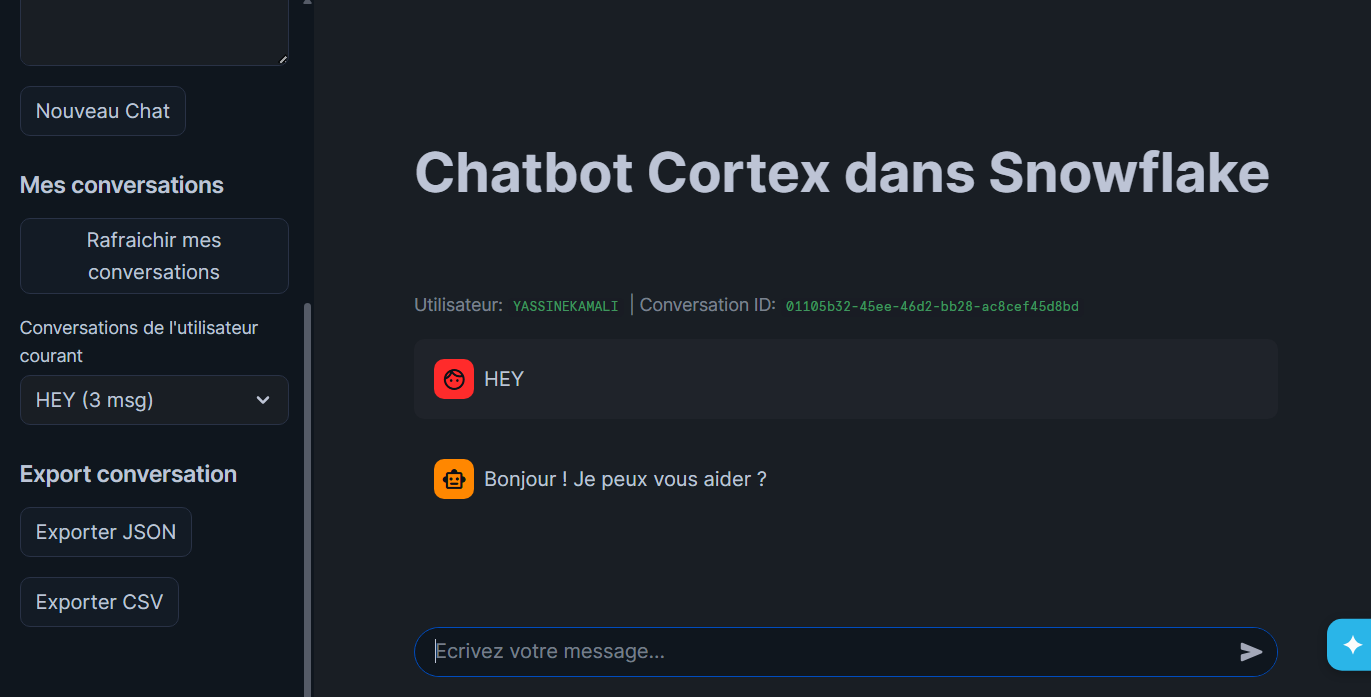
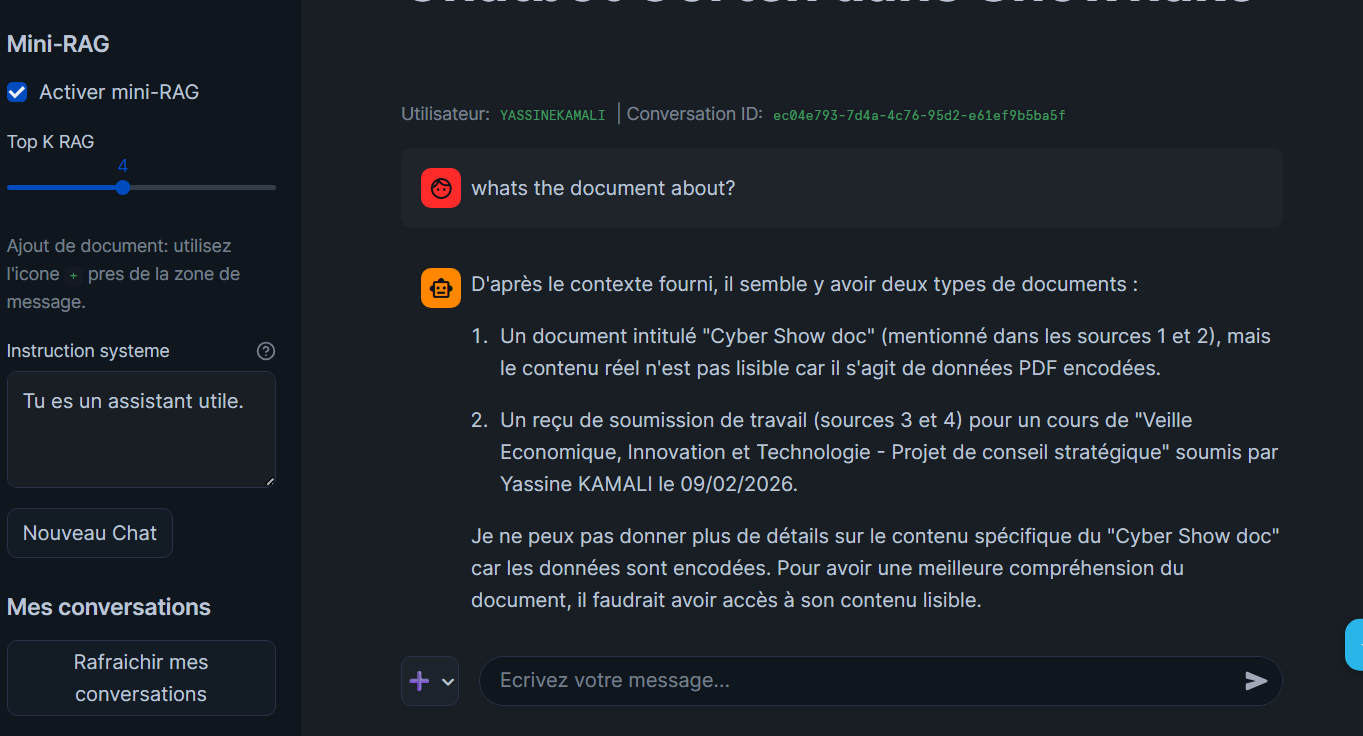
Update README.md and app.py for mini-RAG functionality and document handling

diff --git a/app.py b/app.py
@@ -1,12 +1,19 @@
 import json
 import csv
 import io
+import hashlib
 from datetime import datetime, timezone
+from pathlib import Path
 from typing import Any, Dict, List, Tuple
 from uuid import uuid4
 
 import streamlit as st
 from snowflake.snowpark.context import get_active_session
+
+try:
+    from pypdf import PdfReader
+except Exception:
+    PdfReader = None
 
 DEFAULT_SYSTEM_PROMPT = "Tu es un assistant utile."
 HISTORY_TABLE = "CHAT_MESSAGES"
@@ -118,6 +125,61 @@ def split_text_into_chunks(text: str, chunk_size: int = 900, overlap: int = 150)
     return chunks
 
 
+def extract_document_title_and_content(uploaded_file) -> Tuple[str, str, str]:
+    file_name = uploaded_file.name if uploaded_file is not None else "document"
+    title = Path(file_name).stem.replace("_", " ").strip() or "document"
+    raw = uploaded_file.getvalue() if uploaded_file is not None else b""
+    suffix = Path(file_name).suffix.lower()
+    warning = ""
+
+    text = ""
+    if suffix in {".txt", ".md", ".csv", ".json"}:
+        text = raw.decode("utf-8", errors="ignore")
+    elif suffix == ".pdf":
+        if PdfReader is None:
+            warning = "Lecture PDF limitee dans cet environnement. Preferer .txt/.md pour de meilleurs resultats."
+            text = raw.decode("utf-8", errors="ignore")
+        else:
+            try:
+                reader = PdfReader(io.BytesIO(raw))
+                text = "\n".join([(page.extract_text() or "") for page in reader.pages])
+            except Exception:
+                warning = "Extraction PDF partielle ou impossible. Preferer .txt/.md."
+                text = raw.decode("utf-8", errors="ignore")
+    else:
+        warning = "Format non optimal pour extraction texte. Preferer .txt/.md/.pdf."
+        text = raw.decode("utf-8", errors="ignore")
+
+    return title, text.strip(), warning
+
+
+def auto_index_uploaded_rag_file(session, user_name: str, uploaded_file) -> Tuple[bool, str]:
+    if uploaded_file is None:
+        return False, "Aucun fichier fourni."
+
+    raw = uploaded_file.getvalue()
+    file_sig = hashlib.sha256(raw).hexdigest()
+    if st.session_state.get("last_indexed_rag_file_sig") == file_sig:
+        return True, "Document deja indexe."
+
+    title, content, warning = extract_document_title_and_content(uploaded_file)
+    if not content:
+        return False, "Impossible d'extraire le contenu du document."
+
+    ok, msg = index_rag_document(
+        session=session,
+        user_name=user_name,
+        doc_name=title,
+        content=content,
+        source_type="file",
+    )
+    if ok:
+        st.session_state.last_indexed_rag_file_sig = file_sig
+        if warning:
+            msg = f"{msg} {warning}"
+    return ok, msg
+
+
 def index_rag_document(
     session,
     user_name: str,
@@ -152,7 +214,7 @@ def index_rag_document(
                     ?,
                     ?,
                     ?,
-                    SNOWFLAKE.CORTEX.AI_EMBED(?, ?),
+                    SNOWFLAKE.CORTEX.EMBED_TEXT_1024(?, ?),
                     CURRENT_TIMESTAMP()
                 """,
                 params=[str(uuid4()), doc_id, user_name, idx, chunk, RAG_EMBED_MODEL, chunk],
@@ -173,7 +235,7 @@ def retrieve_rag_chunks(
         rows = session.sql(
             f"""
             WITH q AS (
-                SELECT SNOWFLAKE.CORTEX.AI_EMBED(?, ?) AS qvec
+                SELECT SNOWFLAKE.CORTEX.EMBED_TEXT_1024(?, ?) AS qvec
             )
             SELECT
                 c.chunk_text,
@@ -225,9 +287,21 @@ def inject_rag_context(history: List[Dict[str, str]], rag_chunks: List[Dict[str,
     )
 
     if history and history[0]["role"] == "system":
-        return [history[0], {"role": "system", "content": rag_instruction}, *history[1:]]
+        merged_system = f"{history[0]['content']}\n\n{rag_instruction}"
+        return [{"role": "system", "content": merged_system}, *history[1:]]
 
     return [{"role": "system", "content": rag_instruction}, *history]
+
+
+def is_empty_model_answer(answer: str) -> bool:
+    normalized = " ".join(answer.strip().split())
+    if not normalized:
+        return True
+    if normalized in {"{}", "[]"}:
+        return True
+    if '"choices": [ {} ]' in normalized:
+        return True
+    return False
 
 
 def get_current_user(session) -> str:
@@ -489,6 +563,9 @@ def init_state() -> None:
     if "last_rag_sources" not in st.session_state:
         st.session_state.last_rag_sources = []
 
+    if "last_indexed_rag_file_sig" not in st.session_state:
+        st.session_state.last_indexed_rag_file_sig = ""
+
 
 def start_new_chat(session, system_prompt: str, user_name: str) -> None:
     st.session_state.conversation_id = str(uuid4())
@@ -559,32 +636,7 @@ with st.sidebar:
     st.markdown("### Mini-RAG")
     enable_rag = st.checkbox("Activer mini-RAG", value=False)
     rag_top_k = st.slider("Top K RAG", min_value=1, max_value=8, value=3, step=1)
-    rag_doc_name = st.text_input("Nom du document", value="")
-    rag_file = st.file_uploader("Importer un fichier texte", type=["txt", "md"])
-    rag_text = st.text_area("Ou coller un texte a indexer", value="", height=120)
-    if st.button("Indexer document RAG"):
-        if st.session_state.rag_warning:
-            st.error(st.session_state.rag_warning)
-        else:
-            doc_name = rag_doc_name.strip() or (rag_file.name if rag_file is not None else "document")
-            file_text = ""
-            if rag_file is not None:
-                try:
-                    file_text = rag_file.getvalue().decode("utf-8", errors="ignore")
-                except Exception:
-                    file_text = ""
-            content_to_index = file_text.strip() or rag_text.strip()
-            ok, msg = index_rag_document(
-                session=session,
-                user_name=st.session_state.current_user,
-                doc_name=doc_name,
-                content=content_to_index,
-                source_type="file" if rag_file is not None else "manual",
-            )
-            if ok:
-                st.success(msg)
-            else:
-                st.error(msg)
+    st.caption("Ajout de document: utilisez l'icone `+` pres de la zone de message.")
 
     prompt_input = st.text_area(
         "Instruction systeme",
@@ -690,7 +742,33 @@ for message in st.session_state.messages:
     with st.chat_message(message["role"]):
         st.markdown(message["content"])
 
-user_prompt = st.chat_input("Ecrivez votre message...")
+input_cols = st.columns([1, 12], vertical_alignment="bottom")
+with input_cols[0]:
+    with st.popover("➕"):
+        rag_inline_file = st.file_uploader(
+            "Ajouter un document (txt, md, pdf)",
+            type=["txt", "md", "pdf"],
+            key="rag_inline_file",
+        )
+        if rag_inline_file is not None:
+            if st.session_state.rag_warning:
+                st.error(st.session_state.rag_warning)
+            else:
+                ok, msg = auto_index_uploaded_rag_file(
+                    session=session,
+                    user_name=st.session_state.current_user,
+                    uploaded_file=rag_inline_file,
+                )
+                if ok:
+                    refresh_user_conversations(session)
+                    if msg != "Document deja indexe.":
+                        st.success(msg)
+                else:
+                    st.error(msg)
+
+with input_cols[1]:
+    user_prompt = st.chat_input("Ecrivez votre message...")
+
 if user_prompt:
     st.session_state.messages.append({"role": "user", "content": user_prompt})
 
@@ -707,7 +785,8 @@ if user_prompt:
             st.session_state.table_warning = f"Insertion utilisateur impossible ({exc})."
 
     with st.chat_message("assistant"):
-        payload = build_full_history(st.session_state.messages)
+        payload_without_rag = build_full_history(st.session_state.messages)
+        payload = payload_without_rag
         rag_chunks: List[Dict[str, str]] = []
         rag_runtime_warning = ""
         if enable_rag and not st.session_state.rag_warning:
@@ -725,6 +804,14 @@ if user_prompt:
                 displayed_answer = call_cortex(session, selected_model, payload, temperature)
             except Exception as exc:  # noqa: BLE001
                 displayed_answer = format_cortex_exception(exc, selected_model)
+
+        if enable_rag and rag_chunks and is_empty_model_answer(displayed_answer):
+            with st.spinner("Repli sans RAG (reponse vide)..."):
+                try:
+                    displayed_answer = call_cortex(session, selected_model, payload_without_rag, temperature)
+                    st.caption("Reponse vide avec RAG: repli automatique sans contexte RAG.")
+                except Exception as exc:  # noqa: BLE001
+                    displayed_answer = format_cortex_exception(exc, selected_model)
 
         st.markdown(displayed_answer)
         if rag_runtime_warning:

diff --git a/README.md b/README.md
@@ -1,6 +1,6 @@
 # Chatbot Streamlit + Snowflake Cortex
 
-Application web conversationnelle de type ChatGPT, hebergee dans **Streamlit in Snowflake**, utilisant **Snowflake Cortex** sans cle OpenAI.
+Application web conversationnelle de type ChatGPT, hebergee dans **Streamlit in Snowflake**, utilisant **Snowflake Cortex** .
 
 ## Architecture
 - Frontend: Streamlit (`app.py`) execute dans Snowflake.
@@ -21,14 +21,15 @@ Flux:
 |-- README.md
 `-- sql
     |-- 01_setup_environment.sql
-    `-- 02_create_conversation_table.sql
+    |-- 02_create_conversation_table.sql
+    |-- 03_rag_setup.sql
 ```
 
 ## Partie A - Mise en place Snowflake
 Executer:
 1. `sql/01_setup_environment.sql`
 2. `sql/02_create_conversation_table.sql`
-3. Dans `sql/01_setup_environment.sql`, remplacer `<YOUR_ROLE>` par votre role Snowflake existant.
+3. `sql/03_rag_setup.sql`
 
 Resultat attendu:
 - Warehouse: `WH_LAB`
@@ -85,6 +86,7 @@ Fonctionnalites implementees:
 - rechargement automatique d'une conversation depuis la liste `Mes conversations` (sans bouton `Charger`).
 - nom des conversations base sur le premier message utilisateur.
 - export de la conversation courante en JSON et CSV.
+- mini-RAG avec indexation de documents via l'icone `+` pres de la zone de message.
 
 ## Deploiement Streamlit in Snowflake
 1. Ouvrir Snowflake > **Projects** > **Streamlit** > **Create app**.
@@ -110,6 +112,16 @@ Valeurs possibles: `AWS_US`, `AWS_EU`, `AWS_APJ`, `ANY_REGION`.
 - Gestion taille historique:
   - envoi de tout l'historique de la conversation a chaque requete,
   - message `system` toujours conserve.
+
+## Mini-RAG (usage)
+- Activez `Activer mini-RAG` dans la sidebar.
+- Ajoutez un document via l'icone `+` a gauche de la zone de message.
+- Le titre est detecte automatiquement depuis le nom du fichier.
+- Le contenu est extrait automatiquement (txt/md/pdf), puis:
+  - chunking,
+  - embeddings avec `SNOWFLAKE.CORTEX.EMBED_TEXT_1024`,
+  - retrieval `top-k` par similarite cosinus.
+- Les sources utilisees sont affichees dans `Sources RAG utilisees`.
 
 
 ## Images
